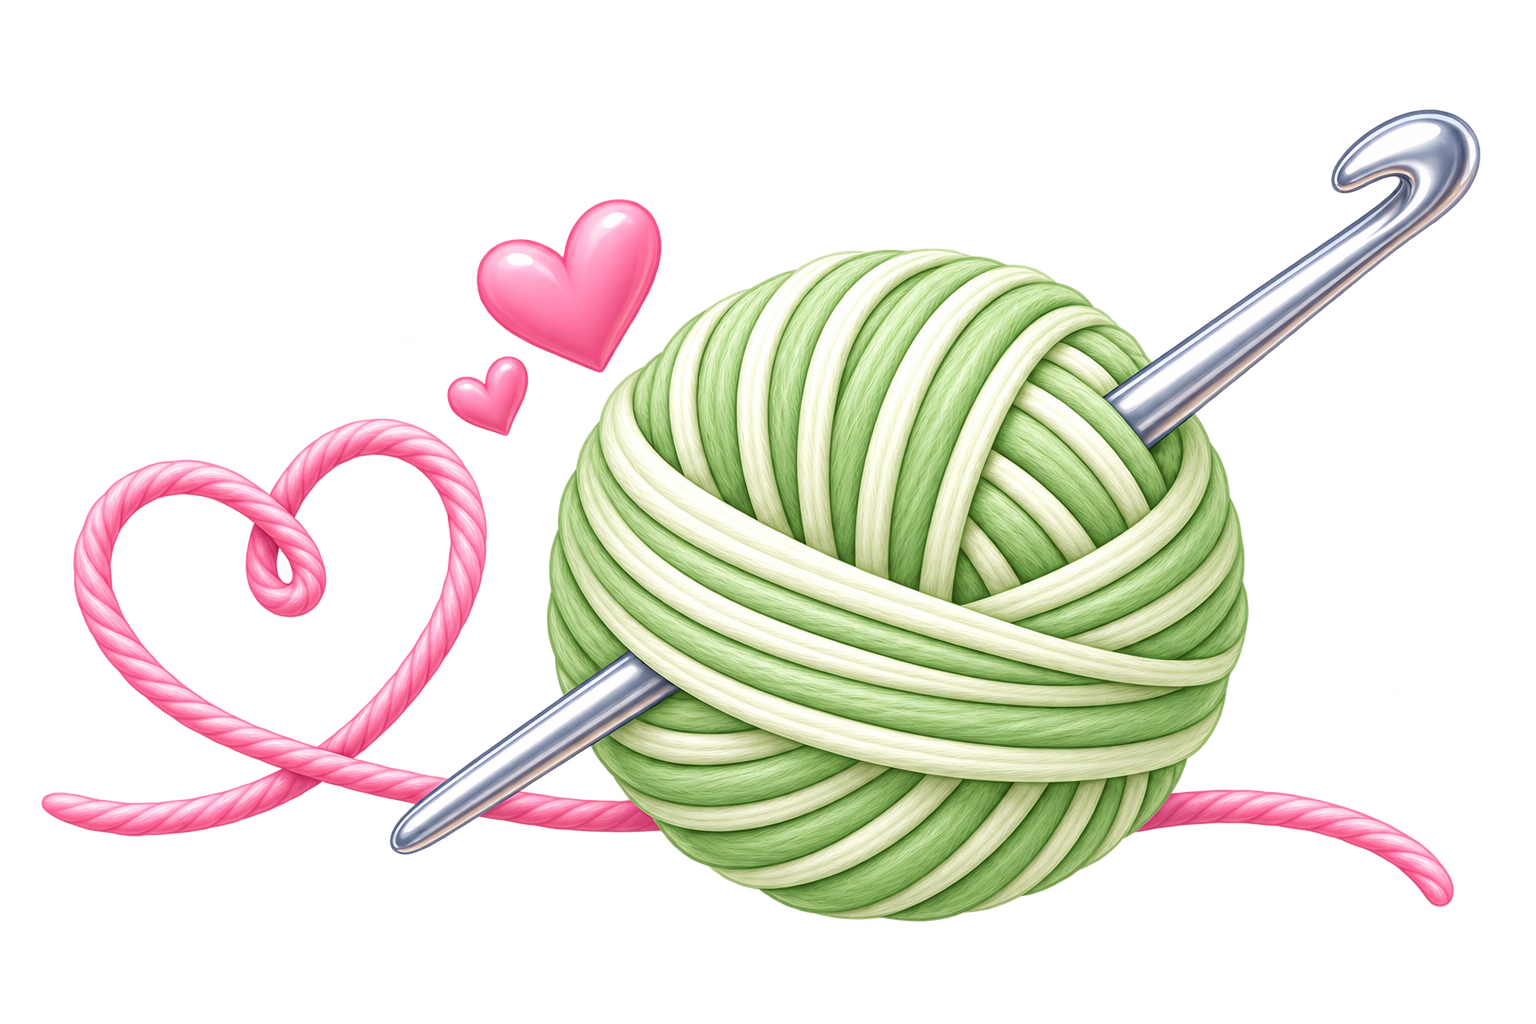
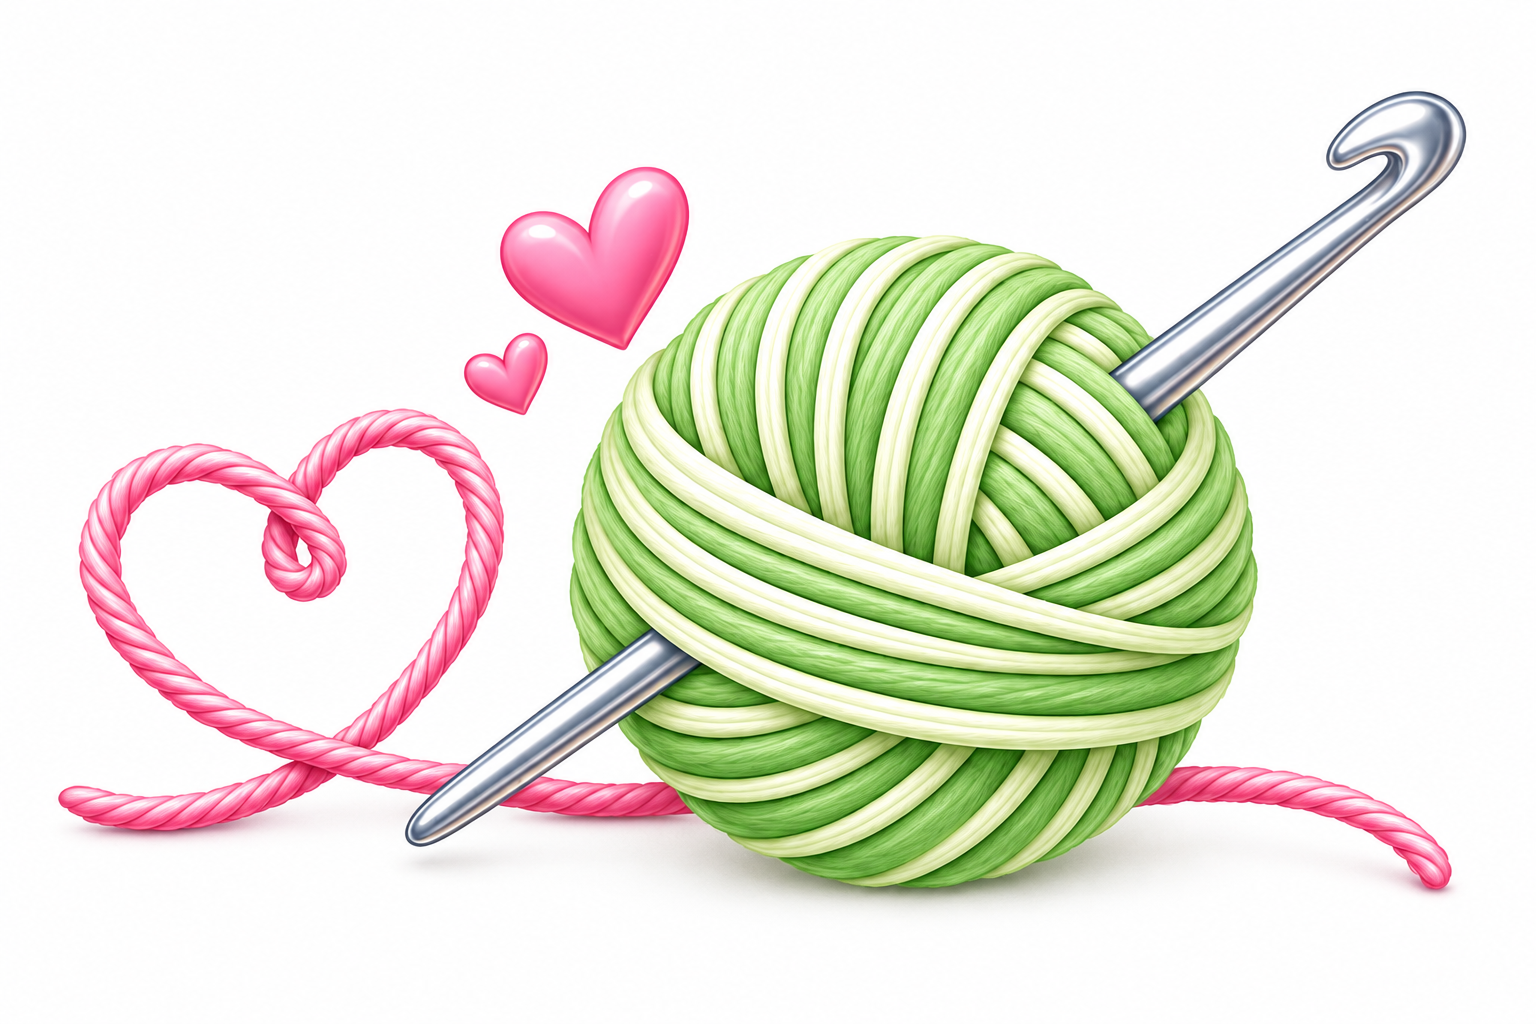
Mejoré el diseño de la página principal

diff --git a/facturacion.html b/facturacion.html
@@ -4,7 +4,7 @@
 <meta charset="utf-8">
 <meta name="viewport" content="width=device-width,initial-scale=1">
 <title>Facturación | Tejiendo Sueños Clau</title>
-<link rel="icon" href="img/logo.png">
+<link rel="icon" href="img/icon.png">
 <link rel="stylesheet" href="css/factura-bonita.css">
 <style>
 :root{--p:#f47da3;--pd:#e85c8b;--g:#31b866;--v:#8662a9;--ink:#40373b;--mut:#7d7378;--line:#eadfe4;--soft:#fff3f7}
